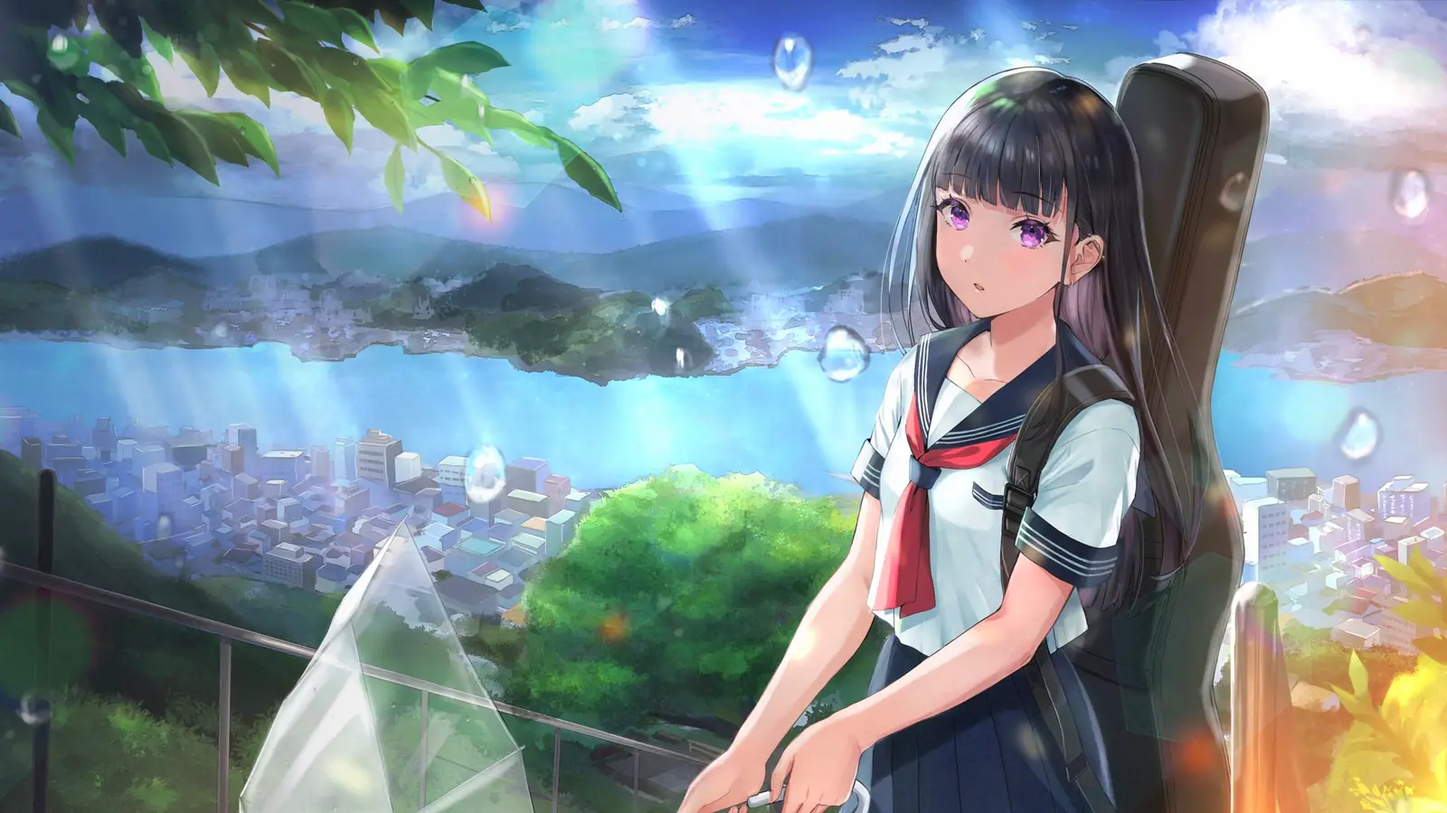
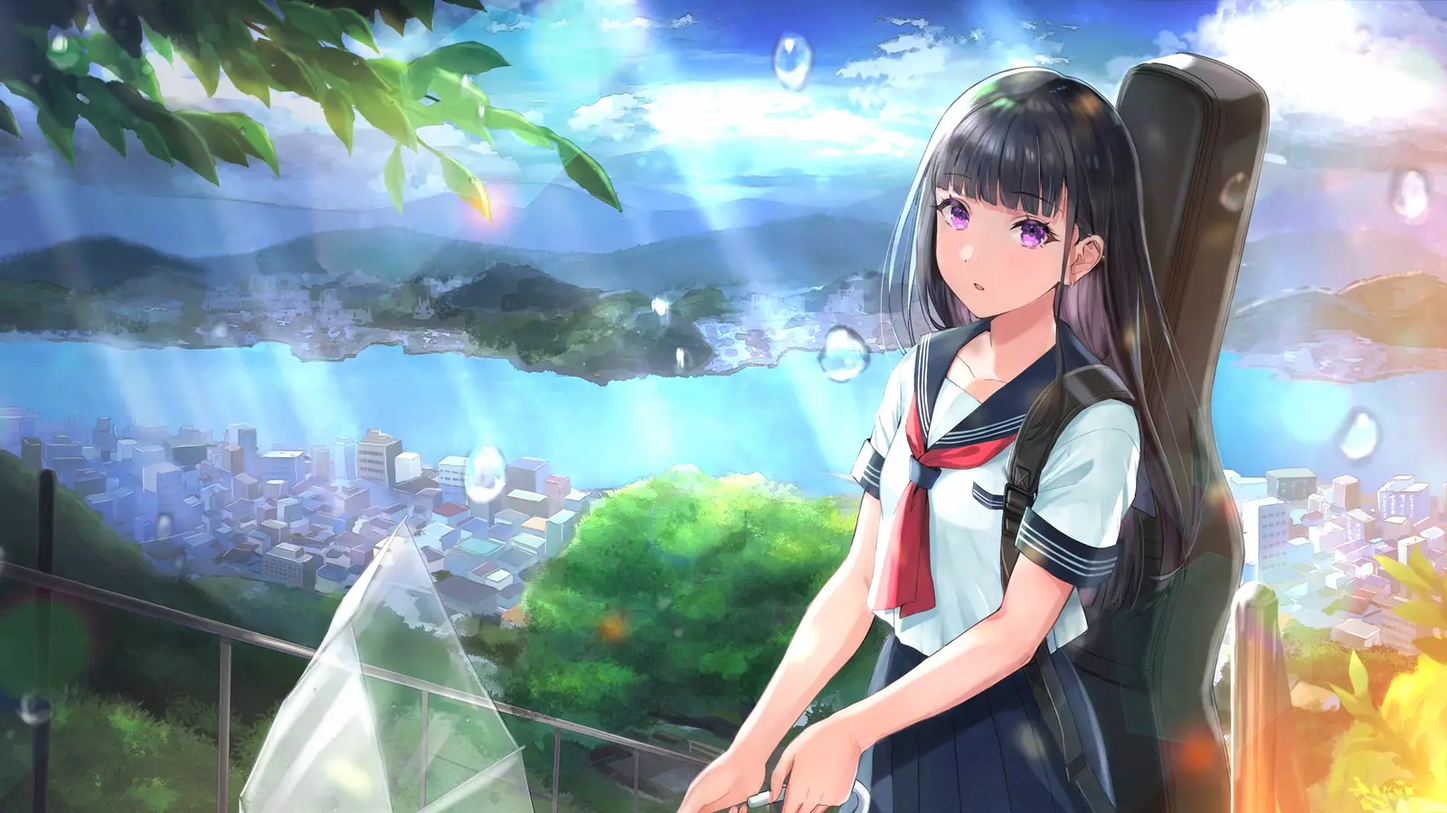
chore: 更新博客内容

diff --git a/assets/css/extended/09-home.css b/assets/css/extended/09-home.css
@@ -3,10 +3,14 @@
    模板见 layouts/_partials/index_profile.html（覆盖主题同名 partial）
    与 layouts/_partials/home-scale.html、home-extras.html
 
-   结构（2026-09-19 起）：
+   结构（2026-09-21 起）：
      .profile_inner
-       .home-hero      头像 / 标题 / 副标题 / 社交图标 / 快捷入口 / 站点规模 / buttons
-       .home-side      .home-browse（按类浏览）+ .home-recent（最近更新）
+       .home-hero      头像 / 标题 / 副标题 / 社交图标 / 快捷入口 / 站点规模 / 卡片组
+       .home-side      .home-clock（时间与时钟）+ .home-recent（最近更新）
+   2026-09-21 用户要求：删掉「按类浏览」那一栏、换成时钟，并把「最近更新」压到右栏底部
+   （与左栏那列的底边齐平）。所以这一档的 `align-items` 从 `start` 改成了 `stretch`
+   —— **「两栏高度互不牵扯」那条旧结论被有意推翻了**，见下面那条注释。
+   `.home-browse` 的那组样式仍留着（partial 也留着），恢复时把调用加回去即可。
    两块内容各自是一块**玻璃面板**（--surface + 1px --edge + 14px 圆角 + 投影）。之前它们是散在
    壁纸上的：每个 chip、每条「最近更新」各自带一小块 --surface 底、各自的标题再各叠一层玻璃底衬，
    一层压一层 —— 观感像散落的小盒子，代价是首页有二十来个 backdrop-filter 元素。改成两块面板
@@ -193,8 +197,79 @@
   width: 100%;
 }
 
-.home-browse,
+/* 「最近更新」压到右栏底部（用户要求：底边与左栏那一列齐平）。
+   `margin-top: auto` 在 flex 列里会吃掉上方所有剩余空间 —— 于是时钟留在顶部、
+   最近更新落在底部，两者之间的距离由左栏的高度决定，不需要任何写死的数值。 */
 .home-recent {
+  margin-top: auto;
+}
+
+/* **1024~1400px 要把右下角给看板娘腾出来。**
+   这一段宽度的特征是「正文列几乎顶到视口边缘」（容器最大 1072 + 两侧 gap）而她就贴在
+   右边缘 14px 处 —— 横向让不开（要让开她得瘦到 24px），只能纵向让。
+   实测（1100px 视口）：面板右下角被她压住 54×27px，正好盖住最后一条的日期；
+   1300px 时还差 31px 不重叠，但再窄一点就开始压。
+   腾出的高度直接读她自己那套变量：--float-bottom 就是「4rem + 她的高度」，
+   减掉 4rem 即她的高度（14-mascot.css 按断点给的三档），于是这里不用手抄第二份数字 ——
+   改她的尺寸时这一条自动跟着走。
+   >1400px 不腾：那时正文列右缘离她还有一段距离（1680px 下差 173px），压满底部没有问题。 */
+@media (min-width: 1024px) and (max-width: 1400px) {
+  .home-recent {
+    margin-bottom: calc(var(--float-bottom) - 4rem - 1.2rem);
+  }
+}
+
+/* ---------- 首页时钟（layouts/_partials/home-clock.html + assets/js/home-clock.js） ----------
+
+   面板的玻璃底、圆角、投影来自上面那条与 .home-browse / .home-recent 共用的规则；
+   这里只管它内部的排版。
+
+   **出厂隐藏**：脚本填好第一帧内容才摘掉 data-pending。用自定义属性而不是 `hidden`
+   属性 —— `.home-clock` 上的 `display: flex` 会压过浏览器默认样式表里的
+   `[hidden] { display: none }`，那样面板会先空着显示出来。 */
+.home-clock[data-pending="1"] {
+  display: none;
+}
+
+.home-clock {
+  display: flex;
+  flex-direction: column;
+  gap: .4rem;
+}
+
+.home-clock-time {
+  display: flex;
+  align-items: baseline;
+  gap: .3rem;
+  line-height: 1;
+  /* 秒数每秒都在变：等宽数字让整块不会随数字宽度左右抖（.home-recent-date 同样处理） */
+  font-variant-numeric: tabular-nums;
+}
+
+.home-clock-hm {
+  font-size: 2.6rem;
+  font-weight: 600;
+  letter-spacing: .01em;
+}
+
+.home-clock-sec {
+  font-size: 1rem;
+  color: var(--secondary);
+}
+
+.home-clock-meta {
+  display: flex;
+  flex-wrap: wrap;
+  align-items: baseline;
+  gap: .45rem;
+  font-size: .85rem;
+  letter-spacing: .02em;
+  color: var(--secondary);
+}
+
+.home-browse,
+.home-recent,
+.home-clock {
   width: 100%;
   max-width: calc(var(--main-width) + 40px);
   margin-inline: auto;
@@ -386,8 +461,12 @@
    已有先例）。
 
    列宽 20rem + 2rem 间距 + 剩余给右栏：1024px 内容区下右栏拿到 672px，「最近更新」仍是两列。
-   两个直接子项（hero / side）各占一格、align-items: start —— 高度不互相拉扯，
-   右栏内部由 .home-side 自己的 gap 排两块面板，不与左栏的高低联动。 */
+   两个直接子项（hero / side）各占一格。
+
+   **align-items 从 start 改成 stretch（2026-09-21，用户要求）**：原来是「高度不互相拉扯」，
+   现在要的是「最近更新」的底边与左栏那一列的底边齐平 —— stretch 把右栏拉到与左栏同高，
+   再由 .home-recent 的 `margin-top: auto` 把它压到底（见下面那一条）。
+   参考线是**左栏整体的底边**（卡片组 + 它下面那排控制按钮），不是卡片图片的底边。 */
 @media (min-width: 1024px) {
   main.main:has(.home-recent) {
     max-width: calc(var(--nav-width) + var(--gap) * 2);
@@ -407,7 +486,7 @@
     display: grid;
     grid-template-columns: 20rem minmax(0, 1fr);
     column-gap: 2rem;
-    align-items: start;
+    align-items: stretch;
   }
 
   .home-hero {
@@ -463,6 +542,7 @@
   .home-chara,
   .profile-links,
   .home-scale,
+  .home-clock,
   .home-browse,
   .home-recent {
     animation: home-in .38s cubic-bezier(.2, .7, .3, 1) backwards;
@@ -473,6 +553,8 @@
   .home-chara { animation-delay: .1s; }
   .profile-links { animation-delay: .12s; }
   .home-scale { animation-delay: .16s; }
+  .home-clock { animation-delay: .18s; }
+  /* .home-browse 的档位留着：那块 partial 还在仓库里，恢复调用时不用再改这里 */
   .home-browse { animation-delay: .2s; }
   .home-recent { animation-delay: .24s; }
 

diff --git a/assets/js/home-clock.js b/assets/js/home-clock.js
@@ -1,0 +1,83 @@
+/* 首页右栏的时钟：把当前时间写进 .home-clock，并按秒更新。
+ *
+ * 由 extend_head.html 只在首页加载。结构在 layouts/_partials/home-clock.html，
+ * 样式在 assets/css/extended/09-home.css 的「首页时钟」一节。
+ *
+ * 三条边界：
+ * 1. **面板出厂是隐藏的**（模板上带 `data-pending="1"`），第一帧填好内容才摘掉 ——
+ *    静态站没有「服务端时间」可用，先显示再纠正会闪一下错的时间，宁可晚一帧出现。
+ *    没有 JS 时这块整个不出现（与 #bottom-link 同一套做法）。
+ * 2. **对齐到整秒再加定时器**：直接 setInterval(1000) 会按「脚本启动时刻」切秒，
+ *    页面上那一秒永远比系统时钟偏一点。先 setTimeout 到下一个整秒边界再起 interval。
+ * 3. **回到前台要立刻补一次**：后台标签页里定时器被浏览器压到每分钟甚至冻结，
+ *    切回来时若只等下一个 tick，会显示一段过期的时间。visibilitychange 里同步一次。
+ *
+ * 代价：每秒一次文本更新（三个短字符串，均在同一个面板内），无布局影响之外的开销。
+ * 没有做「减少动效」分叉：这不是动画，是数值刷新（14-mascot / reveal 那类做法针对的是位移与淡入）。
+ */
+(() => {
+    'use strict';
+
+    const el = document.querySelector('.home-clock');
+    if (!el) {
+        return;
+    }
+
+    const read = (key) => (el.dataset[key] || '');
+    const pad = (n) => (n < 10 ? '0' + n : String(n));
+
+    let dows = [];
+    try {
+        dows = JSON.parse(read('dows') || '[]');
+    } catch (e) {
+        dows = [];
+    }
+    const dateTpl = read('date');
+
+    const hm = el.querySelector('.home-clock-hm');
+    const sec = el.querySelector('.home-clock-sec');
+    const dateEl = el.querySelector('.home-clock-date');
+    const greetEl = el.querySelector('.home-clock-greet');
+
+    const greetFor = (h) => {
+        if (h >= 5 && h < 11) return read('morning');
+        if (h >= 11 && h < 13) return read('noon');
+        if (h >= 13 && h < 18) return read('afternoon');
+        if (h >= 18 && h < 23) return read('evening');
+        return read('late');
+    };
+
+    const tick = () => {
+        const now = new Date();
+        const h = now.getHours();
+        const m = now.getMinutes();
+
+        hm.textContent = pad(h) + ':' + pad(m);
+        sec.textContent = pad(now.getSeconds());
+        dateEl.textContent = dateTpl
+            .replace('{y}', String(now.getFullYear()))
+            .replace('{m}', String(now.getMonth() + 1))
+            .replace('{d}', String(now.getDate()));
+        /* 星期几从 data-dows 里取：下标与 Date.getDay() 对齐（0 = 周日），
+           取不到就留空，不退回英文或数字 —— 宁可不显示，也不显示一个语言不对的东西。 */
+        greetEl.textContent = [dows[now.getDay()] || '', greetFor(h)].filter(Boolean).join(' · ');
+    };
+
+    const start = () => {
+        tick();
+        el.removeAttribute('data-pending');
+        /* 先对齐到下一个整秒边界，再按秒走 */
+        window.setTimeout(() => {
+            tick();
+            window.setInterval(tick, 1000);
+        }, 1000 - (Date.now() % 1000));
+    };
+
+    start();
+
+    document.addEventListener('visibilitychange', () => {
+        if (!document.hidden) {
+            tick();
+        }
+    });
+})();

diff --git a/layouts/_partials/home-clock.html b/layouts/_partials/home-clock.html
@@ -1,0 +1,34 @@
+{{- /* 首页右栏的时钟面板（2026-09-21 加，用户要求「添加时间与时钟」）。
+
+     **面板内容是空的、由脚本填**：静态站服务端渲染出来的时间只可能是**构建那一刻**，
+     直接写上去就是错的（而且会一直错下去，直到下次构建）。所以这里只出结构，
+     面板带 `data-pending="1"` 由 assets/js/home-clock.js 摘掉 —— 没有 JS 就不显示这一块
+     （与 #bottom-link「一键到底」同一套做法：宁可没有，也不给一个错的）。
+
+     为什么用 `data-pending` 而不是 `hidden` 属性：作者样式里的 `display: flex` 会**压过**
+     浏览器默认样式表里那条 `[hidden] { display: none }`，于是「隐藏」根本不生效 ——
+     面板会先显示成空的。用一个自定义属性做选择器就没这个坑（traps 第 38 条是这条坑的完整版：
+     工具库页那次表现是「筛完只剩一排空框」）。
+
+     文案全部经 data-* 传给脚本（JS 里不硬编码中文，AGENTS 规则 7）：
+     星期用下标与 JS 的 `Date.getDay()` 对齐（0 = 周日），日期模板带 {y}{m}{d} 占位符，
+     与 searchResultCount 的写法一致。 */ -}}
+{{- $dows := slice (i18n "clockDow0") (i18n "clockDow1") (i18n "clockDow2") (i18n "clockDow3") (i18n "clockDow4") (i18n "clockDow5") (i18n "clockDow6") -}}
+<section class="home-clock" data-pending="1"
+         aria-label="{{ i18n "clockLabel" }}"
+         data-dows="{{ $dows | jsonify }}"
+         data-date="{{ i18n "clockDate" }}"
+         data-morning="{{ i18n "clockGreetMorning" }}"
+         data-noon="{{ i18n "clockGreetNoon" }}"
+         data-afternoon="{{ i18n "clockGreetAfternoon" }}"
+         data-evening="{{ i18n "clockGreetEvening" }}"
+         data-late="{{ i18n "clockGreetLate" }}">
+  <div class="home-clock-time">
+    <span class="home-clock-hm"></span>
+    <span class="home-clock-sec"></span>
+  </div>
+  <div class="home-clock-meta">
+    <span class="home-clock-date"></span>
+    <span class="home-clock-greet"></span>
+  </div>
+</section>

diff --git a/layouts/_partials/index_profile.html b/layouts/_partials/index_profile.html
@@ -98,11 +98,18 @@
         {{- end }}
         </div>
 
-        {{- /* 右栏容器：把「按类浏览」与「最近更新」包成一块，宽屏时整块落在右栏，
-               窄屏就是普通的上下两段（间距由 .home-side 的 gap 给，见 09-home.css） */ -}}
+        {{- /* 右栏容器：把「时钟」与「最近更新」包成一块，宽屏时整块落在右栏，
+               窄屏就是普通的上下两段（间距由 .home-side 的 gap 给，见 09-home.css）。
+
+               2026-09-21 用户要求：删掉「按类浏览」那一栏、换成时间与时钟，
+               并把「最近更新」压到右栏底部（与左栏卡片那一列的底边齐平）。
+               按类浏览的那支 partial（home-extras.html）**保留在仓库里没删**，
+               只摘掉这里的调用 —— 想恢复就把这一行加回来，样式也还在。
+               右栏底对齐靠 09-home.css 里 `.profile_inner` 的 `align-items: stretch`
+               + `.home-recent` 的 `margin-top: auto`。 */ -}}
         <div class="home-side">
-        {{- /* 「按类浏览」：整块在 home-extras.html 里 */ -}}
-        {{- partial "home-extras.html" . }}
+        {{- /* 时间与时钟：整块在 home-clock.html 里（面板内容由 home-clock.js 填） */ -}}
+        {{- partial "home-clock.html" . }}
 
         {{- /* 最近更新：全站 regular page 按 Lastmod 倒序（enableGitInfo 已开，Lastmod 取 git 时间）。
                排除 searchHidden 与 archives/search 两个独立 layout 的页面。 */ -}}

diff --git a/layouts/_partials/home-extras.html b/layouts/_partials/home-extras.html
@@ -1,5 +1,11 @@
 {{- /* 首页的「按类浏览」一块（见 docs/features.md ⑮）。
 
+     ⚠ **2026-09-21 起首页不再调用它**（用户要求删掉这一栏，位置让给时间与时钟）。
+     文件与 CSS（09-home.css 里的 .home-browse 那一组）都**保留着**，想恢复就把
+     index_profile.html 里那一行 `{{- partial "home-extras.html" . }}` 加回去。
+     注意它是首页**唯一的分类导航入口**：摘掉之后分类（项目/课程）只能从
+     主导航或 /tags/ 进，标签计数 chip 也不再出现在首页。
+
      2026-09-19：原先这个文件里还有「站点规模」那一行，现在拆到 home-scale.html 去了 ——
      宽屏两栏布局要把两者分到左右两栏，同一个文件里的两块没法各自归位。本文件现在只管
      「按类浏览」，文件名保留（AGENTS.md §4 与 features.md ⑮ 都指向它）。

diff --git a/layouts/_partials/extend_head.html b/layouts/_partials/extend_head.html
@@ -308,6 +308,10 @@
 {{- /* 首页卡片组（切换 + 自动轮播）：只在首页加载，脚本不大约 3KB。
        卡片清单经模板的 data-deck 传入（见 home-cards.html），文案走 data-* 传。 */ -}}
 {{- if .IsHome }}
+{{- /* 首页右栏的时钟：只在首页加载。文案经 data-* 传（见 home-clock.html）。 */ -}}
+{{- $clock := resources.Get "js/home-clock.js" | minify | fingerprint }}
+<script defer src="{{ $clock.RelPermalink }}" integrity="{{ $clock.Data.Integrity }}" crossorigin="anonymous"></script>
+
 {{- /* 3D 卡片查看器：弹层里那张能转的真卡。**必须排在 home-deck.js 前面** —— 后者在第一次
        打开弹层时会去调 window.card3d.attach。两者都是 defer，按文档顺序执行。
        这也是全站唯一一处 WebGL：它自己约 14KB，代价换来的东西见该文件头部。 */ -}}

diff --git a/tools/backgrounds/make-backgrounds.py b/tools/backgrounds/make-backgrounds.py
@@ -292,6 +292,12 @@ def girl_backgrounds():
     # 再往下裁就切到头发了。
     day = day.crop((0, 0, w, ch)).resize((1600, 900), Image.LANCZOS)
     day = ImageEnhance.Color(day).enhance(1.35)   # 见 daylight_city_background 的注释：彩度是独立旋钮
+    # 亮度是**独立旋钮**，2026-09-21 用户要求「背景再透亮一点」时加的：原来这张只提过彩度、
+    # 没动过亮度，所以画面的明度完全等于源图。+8% 是往**对比度安全**的方向走 ——
+    # 浅色主题的文字都是深色，底越亮对比度越高（实测最紧的那处 light/girl/home
+    # 从 4.88 升到 5.4，见 docs/features.md ⑫ 那张表）。
+    # **不要对夜间那张做同样的事**：深色主题的文字是浅色，提亮底 = 压对比度。
+    day = ImageEnhance.Brightness(day).enhance(1.08)
     day = Image.blend(day, Image.new("RGB", day.size, (250, 247, 250)), 0.05)
     save(day, os.path.join("assets", "images", "bg-daylight-girl.webp"), quality=72)
 

diff --git a/docs/features.md b/docs/features.md
@@ -272,7 +272,9 @@ PingFang/雅黑字体栈、行高 1.85、两端对齐、标题行高收紧、中
 - 搜索页读 `?q=…` 预填输入框并自动出结果，于是任何页面/工具都能用链接直接发起搜索。
 - **必须重试**：主题 `fastsearch.js` 在 `window.load` 之后才 fetch 索引，索引没就绪时派发的 `input` 事件会被静默丢弃（`performSearch` 里 `!fuse` 直接 return）。脚本按「结果是否出现」最多重试 7 次（约 1.6 s），一旦用户自己在输入框里打字就交出控制权。
 
-### ⑮ 首页：快捷入口 / 站点规模 / 按类浏览 / 最近更新 — `_partials/index_profile.html`（整份覆盖）+ `_partials/home-scale.html` + `_partials/home-extras.html` + `09-home.css`
+### ⑮ 首页：快捷入口 / 站点规模 / 时钟 / 最近更新 — `_partials/index_profile.html`（整份覆盖）+ `_partials/home-scale.html` + `_partials/home-clock.html` + `09-home.css`
+
+> 「按类浏览」（`_partials/home-extras.html`）**2026-09-21 起首页不再调用**，位置让给了时钟，见 ㊼。
 
 首页在 profileMode 下由主题 `list.html` 直接调用 `index_profile.html`，**没有任何 hook**，所以这一处是整份覆盖（见第 4 节）。与原版的差异现在有**五处**：头像多取一张 2× 图供高分屏、快捷入口、站点规模与按类浏览（**2026-09-19 起拆成两个 partial**：`home-scale.html` 与 `home-extras.html`）、最近更新、以及 **`.home-hero` / `.home-side` 两个容器**（宽屏两栏布局用，见下）。标题/副标题/社交图标/`profileMode.buttons` 的内容保持主题原样。新块的**逻辑**整块写在各自的 partial 里，`index_profile.html` 只多两行 include —— 那个文件是要跟主题逐行对拍的，对拍面越小越好（所以两个容器里的内容刻意**不重新缩进**：为了多一层容器把几十行整体缩进一级，会让每次升级主题时的对拍多出一大片无意义的差异）。
 
@@ -822,6 +824,55 @@ PingFang/雅黑字体栈、行高 1.85、两端对齐、标题行高收紧、中
 **踩到一个 baseURL 的坑**：`relURL "/courses/"` **原样返回** `/courses/` —— 以斜杠开头的参数不加 baseURL 子路径（对比：`relLangURL` 吃 `library/algebra/` 这种不带前导斜杠的才补成 `/my-blog/library/algebra/`）。所以短代码里先 `strings.TrimPrefix "/"` 再 `relLangURL`，YAML 那边就能照常写 `/courses/`。写错的后果是**部署后才 404**（本地 serve 时 `/courses/` 恰好也通），由 `check-links.mjs` 那条「站内绝对链接但没带 baseURL 子路径」兜住 —— 实测它确实会报（第一版就是这么被抓出来的）。见 traps 第 100 条。
 
 **实测**（五档宽度 × 明暗）：拼贴在每一档都完整落在 `.post-single` 面板内（`insidePanel` 全为 true），无横向溢出；1440/1240 两列各 315px、首尾通栏 641px，跟随目录正常显示且不与拼贴重叠（1440 下目录栏 x∈[136,336]、拼贴从 399 起；1240 下 36~236 对 299）；640 落两列、380 落一列且 `wide` 自动退回一格（`max-width: 560px` 那一档）。
+
+### ㊼ 首页右栏改版：时钟取代按类浏览、最近更新压底、背景提亮（2026-09-21，用户要求）
+
+四件事一起提的，逐条记：
+
+**一、删掉「按类浏览」**。`index_profile.html` 里摘掉了 `{{- partial "home-extras.html" . }}`，
+**partial 与它的 CSS 都留在仓库里**（文件头加了「已停用」说明）——想恢复就把那一行加回去。
+**代价要认**：它是首页**唯一的分类导航入口**，摘掉之后分类（项目/课程）只能从主导航或 `/tags/` 进，
+标签计数 chip 也不再出现在首页。
+
+**二、新增「时间与时钟」** —— `layouts/_partials/home-clock.html` + `assets/js/home-clock.js`（只在首页加载）+ i18n 14 个键。
+- **服务端渲染出来的时间只可能是构建那一刻**，写上去就是错的（而且会一直错到下次构建）。所以面板出厂带
+  `data-pending="1"`、由脚本填好第一帧内容才摘掉；没有 JS 就不显示这一块（与 `#bottom-link` 同一套取舍：
+  宁可没有，也不给一个错的）。
+- **用 `data-pending` 而不是 `hidden` 属性**：`.home-clock` 自己设了 `display: flex`，
+  而作者样式恒胜 UA 样式，`[hidden] { display: none }` 根本压不住 —— 面板会先空着显示出来。
+  这条坑的完整版见 traps 第 38 条。
+- **对齐整秒再加定时器**：直接 `setInterval(1000)` 会按脚本启动时刻切秒，页面上那一秒永远偏一点。
+  先 `setTimeout` 到下一个整秒边界再起 interval。
+- **回到前台补一次**：后台标签页里定时器被节流甚至冻结，`visibilitychange` 里同步一下，
+  否则切回来会显示过期时间。
+- 排版：`font-variant-numeric: tabular-nums`（秒数每秒都变，等宽数字才不会左右抖）。
+
+**三、「最近更新」压到右栏底部**。`09-home.css` 里 `align-items: start → stretch`
++ `.home-recent { margin-top: auto }`。**这是有意推翻**「两栏高度互不牵扯」那条旧结论（注释里写着）。
+参考线是**左栏整体的底边**（卡片组 + 它下面那排控制按钮），不是卡片图片的底边 —— 实测 1680px 下
+面板底 807、左栏底 808。
+
+**四、1024~1400px 要给看板娘腾位**（这条是第三条**引出来的新问题**）。把面板推到底之后，
+在 1100px 视口实测：她的左上角压住面板右下角 **54×27px**，正好盖住最后一条的日期；
+1024px 压 63×16px。那一段宽度的特征是「正文列几乎顶到视口边缘」而她就贴在右边缘 14px 处，
+**横向让不开**（要让开她得瘦到 24px），只能纵向让。腾出的高度直接读她自己那套变量：
+`calc(var(--float-bottom) - 4rem - 1.2rem)` —— `--float-bottom` 就是「4rem + 她的高度」，
+减掉 4rem 即她的高度（`14-mascot.css` 按断点给的三档），**改她的尺寸时这一条自动跟着走**。
+>1400px 不腾：1680px 下正文列右缘离她还有 173px。实测四档（1680/1300/1100/1024）全部 `overlapPx: none`。
+
+**五、背景提亮**：日间壁纸加了一个**亮度**旋钮（`make-backgrounds.py` 的 `girl_backgrounds()`，
+`ImageEnhance.Brightness(...).enhance(1.08)`）—— 原来这张只提过彩度（1.35）、从没动过亮度，
+所以画面明度完全等于源图。
+- **方向是往对比度安全那边走的**：浅色主题的文字都是深色，底越亮对比度越高。
+- 实测（1680×960 首页，壁纸区域平均亮度）：左侧 118.8 → 123.6（**+4.0%**）、
+  右上 172.9 → 181.9（**+5.2%**）、整页 175.3 → 180.2（+2.8%）。图提了 8% 而页面只涨 4~5%，
+  是因为蒙版与玻璃板两层把它稀释掉了。
+- 对比度（`../lab/shots/girlbg/measure.py`，改后重跑）：**最紧处 light/girl/home 4.88 → 4.89**，
+  notes 5.42 → 5.51、course 5.67 → 5.77、taxonomy 5.07 → 5.11、chapter 4.99 → 5.00、404 5.22 → 5.24
+  —— 全部仍过 AA，没有一处回退。提升幅度小是因为最紧的那个元素（日期）坐在 `--surface`（80% 不透明）
+  的面板里，壁纸只贡献 20%。
+- **夜间那张刻意没动**：深色主题的文字是浅色，提亮底 = 压对比度，那是反向。
+  想让它「透」只能放薄 `maskDark`（露出更多夜空与星场），那一次要单独重跑对比度。
 
 ### ㊻ 碎冰落地：分割线的霜晶 + 切页转场（2026-09-21）
 

diff --git a/docs/traps.md b/docs/traps.md
@@ -108,6 +108,7 @@
 | 模板里写的站内绝对链接**部署后才 404**（本地 `hugo server` / serve `public/` 时看着都正常） | `relURL "/courses/"` 对**以斜杠开头**的参数原样返回，不加 baseURL 子路径。实测对照：`relLangURL` 吃 `library/algebra/`（不带前导斜杠）才补成 `/my-blog/library/algebra/` | 模板里写 `{{ strings.TrimPrefix "/" .href | relLangURL }}`，数据文件里就还能照常写 `/courses/`。兜底的是 `scripts/check-links.mjs` 那条「站内绝对链接但没带 baseURL 子路径，部署后会 404」——关于页拼贴的第一版就是被它抓出来的 |
 | CSS 写对了、页面却毫无反应（**不报错**），比如 `@view-transition` 加了但转场从不触发 | 构建链里的 CSS 压缩器会把**它不认识的 at-rule 整条丢掉**：实测产物 stylesheet.css 里 `navigation:auto` 匹配数为 0，而同文件的 `view-transition-name` 与 `::view-transition-*` 都原样保留 —— 名字和动画都在、开关没了 | 把这条 at-rule 挪出 `css/extended/`（那里会被 `resources.Concat` + `resources.Minify` 串进去压），单独放 `assets/css/`、由模板不压缩地外链（与 `css/bg-image.css`、`css/nav-icons.css` 同一种接线）。判据**不能是「产物里有这条规则」**，要功能探针：View Transitions 用旧页面的 `pageswap` 事件里 `event.viewTransition` 是否非 null。同类：老式的 `<meta name="view-transition">` opt-in 在本机 Edge 下不生效（试过） |
 | 同一条 CSS 里**后半截规则集体失效**，前面几行却好好的 | 手改 CSS 时把一段说明的注释定界符（`/*` 或 `*/`）弄丢了，那几行中文成了**裸 token**：浏览器只把坏 token 丢掉、**不报错**，解析器恢复时还会把紧随其后的一条规则一起吞掉。实测症状：`.footer` 的 `view-transition-name` 生效、`.header` 的不生效（`.header` 正好排在裸文本后面） | 改完 CSS 用工具数一遍产物里的规则条数（`document.styleSheets` 里那份表的 `cssRules.length`），或直接 `getComputedStyle` 查被吞的那条属性。**解释性文字一律留在注释块内**，别裸放在规则之间 |
+| 把内容**推到底部**（例如「让这块面板的底边与左栏齐平」）之后，右下角那块内容被看板娘压住 | 看板娘是 `position: fixed` 贴在视口右边缘的，而正文列在中等宽度下几乎顶到视口边缘 —— **横向让不开，只能纵向让**。实测 1100px 视口：面板右下角被压 54×27px，正好盖住最后一条的日期（1024px 压 63×16px；>1400px 时正文列右缘离她有 173px，不撞） | 给那一档宽度留出她的高度：`@media (min-width: 1024px) and (max-width: 1400px) { .home-recent { margin-bottom: calc(var(--float-bottom) - 4rem - 1.2rem) } }` —— 高度读她自己那套变量、不手抄第二份数字。**自查方法**：量 `getBoundingClientRect` 的相交（`dx>0 && dy>0` 即碰撞），别只看截图 —— 她盖住的往往是一列日期这种「不说话但重要」的内容 |
 | 加一个 `<script>`/样式表标签，**每页 HTML 的涨幅远大于脚本本身** | 指纹与 SRI 是随机串，**压不动**：体积极小但每页都要写一遍 | 心里有这笔账：2026-09-21 的两个新脚本自身只有 372 + 637 ≈ 1 KB gzip（且缓存一次就够），而每页 HTML 多约 **180 字节**（整站 gzip 6339 → 6377 KB）。要省就合并成一个文件（本次按「一个职责一个文件」的既有约定，没合） |
 
 ## 2. 会「静默」出错的那一类
